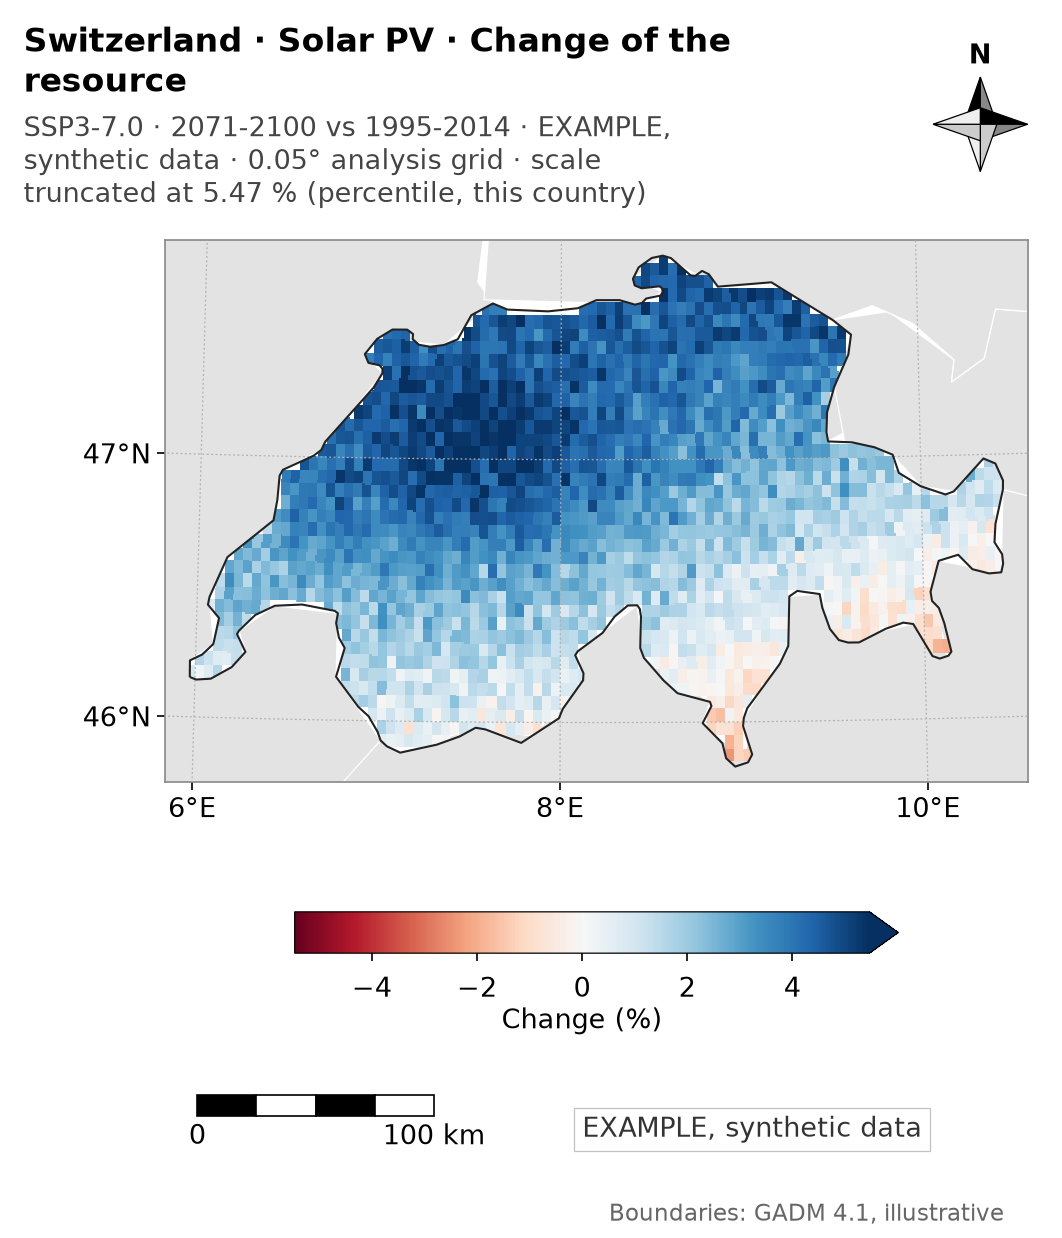
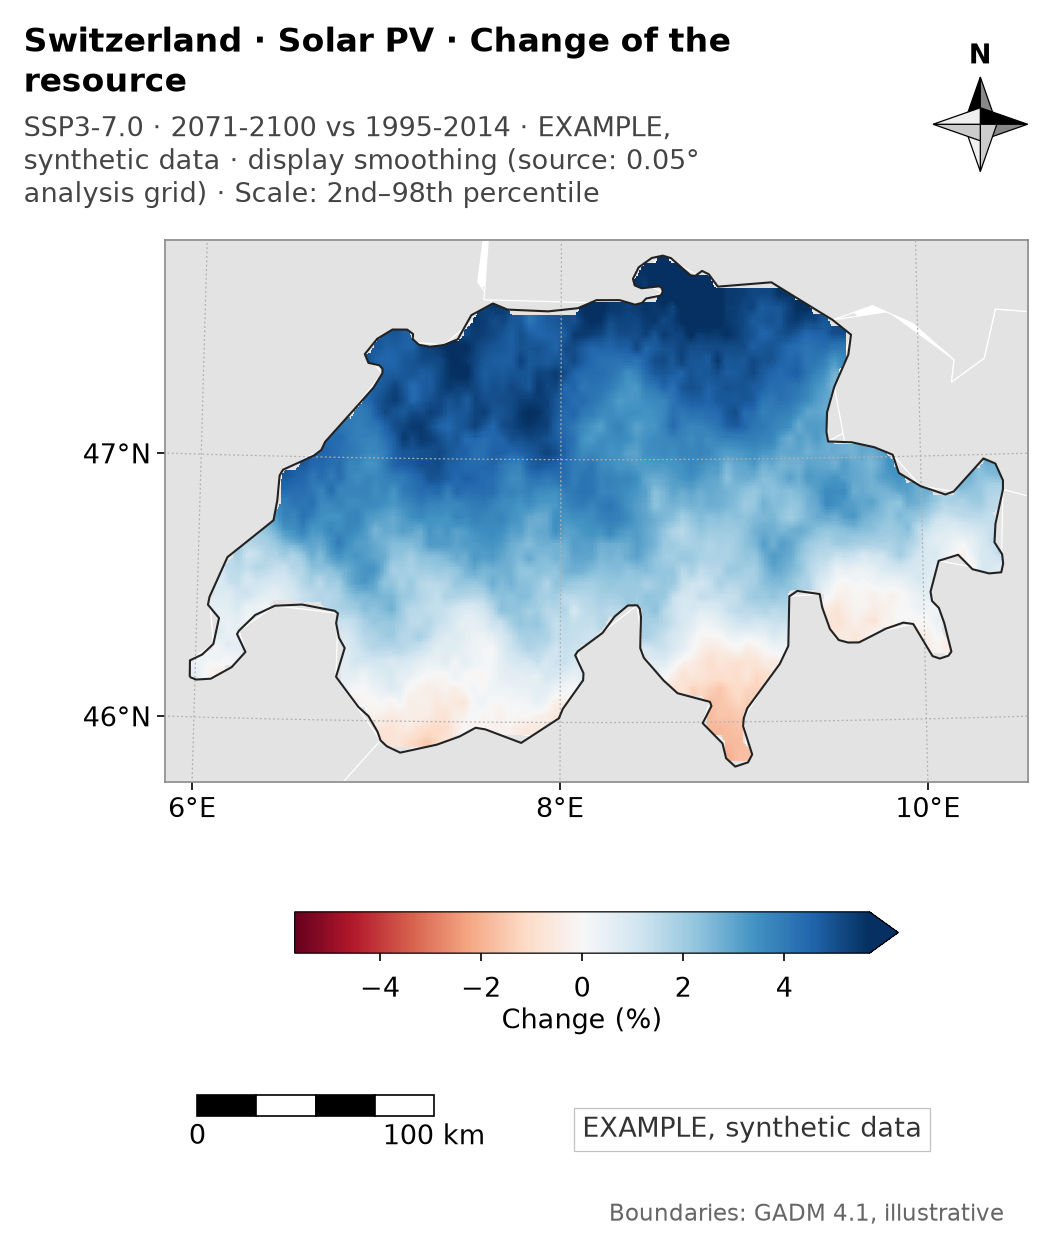
docs: METHODOLOGY 15.2.4, D-core-047, style guide, display_resolution_67b report and examples (COMMAND 67b, 3/3)

diff --git a/docs/phases/core.md b/docs/phases/core.md
@@ -115,6 +115,7 @@ Provides to all phases: DAG orchestrator, artifact registry and manifest, config
 - **D-core-041 — A phase is resumed only while the configuration it reads is the one it ran with (2026-10-18, COMMAND 51; manifest 2.5; A-02).** COMMAND 49 showed that a change of `elevation_max_m` in `experiments.yaml` was not seen: `Orchestrator.run` resumed `land_eligibility` as `success` with the old result (reproduced in `docs/phases/core/manifest_config_fix.md`). `core/config_fingerprint.py` holds `PHASE_CONFIG_SCOPE`, the sections of `experiments.yaml`, `parameters.json` (the country), `audit.yaml`, `technologies.yaml`, `settings.yaml`, `countries.yaml`, `published_potential.yaml` and the power-curve files that each phase reads; the fingerprint is the SHA-256 of the parsed, canonical values (comments and key order do not count). `PhaseSpec.config_fingerprint` is filled by `main._build_phase_specs(country_code=...)`; a `success` entry whose recorded `config_fingerprint` differs is executed again, and the downstream phases follow the content rule. An entry written before 2.5 is resumed once with a warning and adopts the current fingerprint; `--revalidate` refuses a phase whose configuration changed. A new phase must declare its scope (a test fails otherwise). `settings.memory.max_batch_gb` is in no scope.
 - **D-core-042 — A phase is executed again when its code changed, and a consumer is stale only when the canonical content of an input changed (2026-10-20, COMMAND 58; METHODOLOGY 15.2.1, A-02; manifest schema 2.6).** Two failures of COMMAND 52 and 55: a change of code did not invalidate the phase that runs it, and an identical rewrite of an artifact (other parquet metadata, other bytes) made every consumer stale. (a) `core/code_fingerprint.py`: each phase has `code_fingerprint`, the SHA-256 of the normalised syntax tree (comments, docstrings, blank lines and formatting dropped) of every module of the phase's package, or of its named modules (`PHASE_CODE_ROOTS`), and of every `geofrea` module they import, transitively; the manifest infrastructure (`INFRASTRUCTURE_MODULES`), `main.py`, the configuration and third-party packages are not in it. The orchestrator resumes a phase only while the fingerprint equals the recorded one; an entry without it is resumed once and adopts the current one (warning). `revalidate` refuses a phase whose code changed. (b) `core/content_hash.py`: every artifact records `sha256` (bytes, integrity of the file) and `content_sha256` (canonical content: parquet by column names, types and values; GeoTIFF by data, CRS, transform and nodata; JSON and YAML by the parsed document; PNG by pixels; other files by bytes). A re-registered artifact with an unchanged content hash keeps its run ID and a consumer is stale only by a changed `content_sha256`; an entry written before 2.6 is compared by bytes until a rerun records it. (c) `scripts/stamp_manifest_hashes.py <ISO3> --revision <rev> [--dry-run]` writes the two hashes into a real manifest without running anything, with the fingerprints that the code of the named revision gives (`d004027`, the revision of the last real run, for PRT, IND and BRA). Tests: `tests/unit/test_code_fingerprint.py` (a calculation line of F3 changes F3 to F8 and not the phases before it; a comment, a docstring, a blank line or a reformat changes nothing; a core module changes only the phases that import it; the manifest infrastructure changes nothing), `tests/unit/test_content_hash.py` (a parquet rewritten with other metadata keeps the content hash and does not mark consumers stale; another value or type does), `tests/unit/test_stamp_manifest_hashes.py`. Report: `docs/phases/core/resume_integrity_58.md`.
 - **D-core-043 — Schemas leave the code hash, the validated configuration enters the configuration hash, and every internal cache holds its code (2026-10-21, COMMAND 61; METHODOLOGY 15.2.3, A-02).** COMMAND 58 and 59 found two gaps. (a) An edit of `core/config_schemas.py` (a field with a default for the maps) changed the code fingerprint of every phase that imports the module, so F3 to F8 would have run again for a change they do not read. `code_fingerprint.CONFIG_SCHEMA_MODULES` now names the modules of the config-file models (`core.config_schemas`, `core.schemas`, `config_models.audit`, `config_models.land_availability`) and the normalised tree of those leaves out the field declarations and the validators of their pydantic models (methods, properties, helpers and constants stay as code: `for_scenario` and `nominal_set` are calculations). `config_fingerprint` validates each file that has a schema and takes the sections of a phase from the validated model with the defaults resolved, so a new field with a default, or a changed default, changes the fingerprint of the phases that read that section and of no other; a default written out in the YAML changes nothing. (b) Some caches outside the manifest ignored the code (the F3 share caches hid the E1 fix; the DEM extremes, the ERA5 batches, the GWA mosaic stamp without the mask, the GADM mainland files by a hand-bumped rule). `core/cache_code.py` (`CACHE_CODE_ROOTS`, `cache_code`) gives each store the fingerprint of the modules that compute it, `cache_key` takes `code` as a required keyword, and the eight stores of the inventory (table in `docs/phases/core/resume_integrity_58.md` section 8.2) hold it. The share cache key also holds the content of its input and the country polygon through the clip key (it held the mtime and no polygon). The first run of each country after this commit runs every phase again and rebuilds these stores once. Tests: `tests/unit/test_fingerprint_granularity.py`, `tests/unit/test_internal_caches.py`.
+- **D-core-047 — Display resolution of the maps: finer display layers first, declared smoothing second (2026-10-26, COMMAND 67b; spec v2 T-06; METHODOLOGY 15.2.4).** `MapFigure` counts the image pixels per cell of the analysis grid for the preset and the country (`plan_display`). Above 4 it draws the 0.01 degree display layer of the same descriptive quantity (`technical_potential/display_layers.py`: capacity factor by the F5 model, eligible fraction, capacity and energy density; `display_*` artifacts with their own fingerprint; checked against the analysis: CF aggregated to the cell, weighted by the eligible area, within 1%, eligible area and capacity exact; a layer that fails is refused). If a cell is still above 4 pixels, or the field comes from a GCM, a continuous field is interpolated bilinearly with its mask (`viz/display.py`, normalised convolution, no leak of no-data, border at the edge of the cells) and clipped by the polygon; the subtitle says `display smoothing (source: <resolution>)`. Never for classes, categories or per-state maps. `absolute_maps.display_smoothing: auto | off` (default `auto`). Neighbours are cut by the rectangle of the map and the gap between two sources of border is closed (no rounded shapes, no white wedges); the scale note of the subtitle is `Scale: 2nd–98th percentile`, `Scale: fixed` or `Scale: shared`, and the numeric limits are in the PNG metadata; the synthetic fields of the examples and archetypes are a smooth trend plus correlated waves and a small noise per pixel. **The analysis, its totals and `outputs/` do not change. The builder of the display layers is tested but no phase calls it yet (it needs the resources of a real run); `potential_maps` reads the layers when they exist.**
 - **D-core-046 — `MapFigure` draws in LAEA, clips the raster by the country and is tested on six archetypes (2026-10-26, COMMAND 67; spec v2 T-06 to T-08, T-13).** The map is in a Lambert azimuthal equal-area projection centred on the country, for drawing only (areas are computed on the sphere elsewhere); the scale bar is measured in it and the graticule is in degrees. `draw_raster` copies the 0.05 degree grid cell by cell (nearest, rasterised) and clips it by the polygon, so the coast is the vector line; the grid of the analysis does not change. Neighbours within 2.5 degrees, own grey and legend entry for "no potential", locator inset only in overview figures, the resolution in the subtitle (`0.05° analysis grid`), a narrower figure for a very tall country. Archetypes PRT, CHL, BRA, CHE, IDN, LUX (real simplified geometry, synthetic data, `tests/fixtures/archetypes`): five kinds of figure each, no overlap, no cut text, no dead space, standard place of the furniture, golden hash. The sensitivity of the results to the cell is OQ-064. **No figure of `outputs/` was redrawn.**
 - **D-core-045 — `mapstyle.py` is the one module of figure, `MapFigure` (2026-10-26, COMMAND 66; spec v2 T-01 to T-05).** Fixed grid: header (title, subtitle, 8-point compass at the right), map, legend (colour bar of the map's height, or named patches), footer (scale bar, box of totals, source); the search for an empty corner is gone. Presets `thesis` 190 mm, `article_single` 90, `article_double` 180, `slide` 254, fonts in pt. One place for variable -> colormap and scale: solar `YlOrBr` and wind `GnBu` truncated at 15%, exclusion `Reds` (diagnostics), changes `RdBu`/`BrBG`, temperature `YlOrRd`, classes in Okabe-Ito without green; CF fixed 0.10-0.25 (solar) and 0-0.60 (wind) in every country, densities at P2-P98 per country, `shared` for comparisons; a clip goes in the subtitle with mode and scope. A figure refuses one colour with two meanings; deuteranopia and protanopia are simulated in the tests. Titles `Country · Technology · Variable` with the name of the country, no internal id, cell count or typo (`validate_label`). File names `{ISO3}_{phase}_{variable}_{technology}_{scenario}_{climate}.png`, text chunks in the PNG, one `figures_index.json` per folder. `NO_DATA_COLOUR` is `#bdbdbd` and the neighbours `#e3e3e3` (they were `#d9d9d9` and `#ececec`, 5 apart). **No figure of `outputs/` was redrawn:** the producers of F5 still write the old names (`absolute_map_names`) and the real maps change (palette, subtitle with the clip, title with the name of the country) when the phase runs again; moving the producers to `figure_filename` is the next step.
 - **D-core-044 — Adopting the internal caches of an earlier revision (restamp): rejected (2026-10-22, COMMAND 64; A-02).** A restamp (`GEOFREA_CACHE_RESTAMP_FROM`, `scripts/restamp_caches.py`) was built on branch `feat/cache-restamp` so that a refactor would not rebuild the internal caches (D-core-043). It is not merged, not cherry-picked and not used in any round. Reason: the avoidable re-execution is already avoided by the fingerprint per phase (code, validated configuration and content of the inputs; D-core-042 and D-core-043), and the restamp would only save one rebuild after a refactor while accepting the result on the operator's statement of equivalence, which nothing checks: the risk COMMAND 58 corrected. The branch is kept, not deleted. To reconsider only if a cache rebuild after a refactor costs more than 2 h in one country, and then with an automatic equivalence check (run both revisions on a sample and compare the results), never by statement.
@@ -155,4 +156,5 @@ Provides to all phases: DAG orchestrator, artifact registry and manifest, config
 - 2026-10-21 (D-core-043, COMMAND 61): fingerprint granularity and the code in every internal cache, `docs/phases/core/resume_integrity_58.md` section 8.
 - 2026-10-22 (D-core-044, COMMAND 64): restamp of internal caches rejected; branch `feat/cache-restamp` kept unmerged.
 - 2026-10-26 (D-core-045, COMMAND 66): `mapstyle.py` becomes `MapFigure`: fixed layout, presets, semantic palette and scales, titles, file names and PNG metadata.
+- 2026-10-26 (D-core-047, COMMAND 67b): display resolution: the display layers at 0.01 degree, the masked smoothing declared in the subtitle, neighbours cut by the rectangle, lean scale note, correlated synthetic fields.
 - 2026-10-26 (D-core-046, COMMAND 67): `MapFigure` in LAEA with a clipped raster, context, locator, resolution note and archetype tests.

diff --git a/docs/figures/display_resolution_67b.md b/docs/figures/display_resolution_67b.md
@@ -1,0 +1,46 @@
+# Display resolution of the maps (COMMAND 67b)
+
+Branch `feat/display-resolution`. Decision record: D-core-047. Method: METHODOLOGY 15.2.4, section 11. Nothing in the analysis changes: no total, no LCOE, no analysis artifact, no figure under `GEOFREA_DATA_DIR/outputs/`.
+
+## What changed
+
+| Step | What |
+|---|---|
+| 2 | `MapFigure.px_per_cell(cell_deg)` counts the image pixels along one side of an analysis cell for the preset, the country and the width (`plan_display`). Above 4 it uses the finest display layer available. |
+| 3 | `technical_potential/display_layers.py`: the 0.01° display layers (capacity factor by the F5 model itself, eligible fraction, capacity density, energy density), `display_<layer>_<tech>.tif` with `display_layers_<tech>.json` (own fingerprint, checks). `potential_maps` reads them when they exist. |
+| 4 | `viz/display.py`: masked bilinear smoothing (normalised convolution), only for continuous fields; the subtitle says `display smoothing (source: <resolution>)`; `absolute_maps.display_smoothing: auto \| off` in `experiments.yaml` (default `auto`). |
+| 5 | Neighbours are cut by the rectangle of the map (`clip_by_rect`), and the gap between two sources of border (GADM against Natural Earth) is closed with the colour of the neighbours. |
+| 6 | The scale note is `Scale: 2nd–98th percentile`, `Scale: fixed` or `Scale: shared`, only when the scale cuts values; the numeric limits stay in the PNG metadata (`geofrea_scale_limits`). |
+| 7 | The synthetic fields are a smooth trend plus correlated waves (3 cells and longer) and a small noise per pixel; the 0.05° and 0.01° layers are the same field. |
+
+## Before and after (synthetic data, the same field)
+
+"Before" is the 0.05° cells as they are (`fine=False`, `display_smoothing="off"`); "after" is what the figure draws now.
+
+| | Before | After | What was done |
+|---|---|---|---|
+| PRT, thesis | ![](display_resolution_67b/PRT_before.png) | ![](display_resolution_67b/PRT_after.png) | 11.7 px per cell → the 0.01° display layer (2.3 px): no smoothing needed |
+| LUX, article_single | ![](display_resolution_67b/LUX_before.png) | ![](display_resolution_67b/LUX_after.png) | 25.8 px per cell → 0.01° layer (5.2 px, still above 4) → display smoothing |
+| CHE, article_single | ![](display_resolution_67b/CHE_before.png) | ![](display_resolution_67b/CHE_after.png) | climate delta (a GCM field, no fine layer) → display smoothing from the 0.05° grid |
+| BRA, thesis | ![](display_resolution_67b/BRA_before.png) | ![](display_resolution_67b/BRA_after.png) | 1.6 px per cell: nothing to do, identical |
+
+The four examples of `docs/figures/examples/` were regenerated; CHL and IDN (classes and states, never smoothed) were not, as asked.
+
+## Checks
+
+| Check | Where | Result |
+|---|---|---|
+| Pixels per cell ≤ 4, or the subtitle declares the smoothing, for density, capacity factor and climate delta in the six archetypes (18 figures) | `test_display_resolution.py` | pass |
+| No colour outside the country or in the middle of a no-data hole after smoothing | same | pass |
+| Smoothed values stay between the smallest and the largest data value (no 0 leaks in) | same | pass |
+| 0.01° → 0.05° aggregation: CF weighted by the eligible area within 1% in every cell; eligible area and capacity exact (1e-6, float32 of the stored rasters); a wrong analysis (5% CF, 1% area) is refused | same | pass |
+| Classes, categories and states identical pixel by pixel with `auto` and `off` (PRT and LUX eligibility, IDN and CHE state) | same | pass |
+| Neighbours inside the rectangle of the map and reaching its sides | same | pass |
+| Perceptual-hash goldens (archetypes and style examples) refrozen after looking at the figures | `tests/fixtures` | refrozen |
+
+## Limits (stated, not hidden)
+
+- **The display layers of the real countries are not built.** `build_display_layers` and `write_display_layers` are tested on synthetic pixels with the real `PvoutWithTemperature` model, and `potential_maps` reads the layers when they exist, but no phase calls the builder yet: it needs the F2a resource layers, the F3 eligible fraction and the F5 registry settings of a real run, which this command did not run. Until then the real F5 maps draw the cells (with `display smoothing` when a cell is above 4 pixels). Wiring the builder into the phase is a follow-up.
+- The smoothing keeps the border of the data at the edge of the cells, so a thin strip of a coastal cell whose centre is outside the polygon stays empty (white, or the grey of "no potential").
+- The gap between neighbours and country is closed up to 8 km; a larger mismatch of two border sources still shows white. The archetype fixtures have no Liechtenstein, so a small white sliver remains in the example of CHE.
+- The real F5 PNGs keep their old look until the phase is rerun; no file in `outputs/` was touched.

diff --git a/docs/METHODOLOGY.md b/docs/METHODOLOGY.md
@@ -3,9 +3,9 @@
 | Field | Value |
 |---|---|
 | Document | `docs/METHODOLOGY.md` |
-| Version | 15.2.3 |
+| Version | 15.2.4 |
 | Adopted | 2026-09-15 |
-| Updated | 2026-10-21 |
+| Updated | 2026-10-26 |
 | Owner | Douglas |
 | Status | Adopted for implementation. Static document. |
 
@@ -478,6 +478,8 @@ Reporting rule for the climate outputs: climate effects on potential are compute
 
 Per-phase maps are diagnostics for inspection and for the future platform, generated under A-08. Minimum set per country and technology: F2b exclusion layers and cost-driver layers; F3 eligible fraction and dominant exclusion; F4 change factors per member; F5 CF and capacity per member; F6 nominal and median LCOE; F7 MR, SR, top-k flags.
 
+**Display resolution.** What a map draws is never what the analysis computes. A map counts the image pixels per cell of the analysis grid (0.05 degree); above 4 it draws, when there is one, the *display layer* of the same descriptive quantity on the 0.01 degree grid of F2a (capacity factor by the F5 model itself, including the air density rule and the retention of the candidate cells; eligible fraction; capacity density; energy density), written by `potential_maps` as `display_*` artifacts with their own fingerprint and checked against the analysis (the capacity factor aggregated to the cell, weighted by the eligible area, within 1% in every cell; the eligible area and the capacity exact). If a cell is still a block, or the field comes from a GCM, a continuous field (capacity factor, densities, climate deltas) is interpolated bilinearly with its mask (no-data weighs nothing and nothing is drawn beyond the edge of the cells) and clipped by the country polygon; the subtitle says `display smoothing` and the resolution of the source, and `experiments.yaml` `absolute_maps.display_smoothing` (`auto` | `off`) controls it. Classes, categories and per-state maps are never smoothed. No total, LCOE, ranking or analysis artifact reads a display layer.
+
 ---
 
 ## 12. Implementation roadmap
@@ -563,6 +565,7 @@ Full bibliographic details must be confirmed during the literature review before
 
 | Version | Date | Change |
 |---|---|---|
+| 15.2.4 | 2026-10-26 | PATCH (output rule of a diagnostic phase; COMMAND 67b; no result changes): Section 11 states the display resolution of the maps: display layers at 0.01 degree from F2a for the descriptive maps of `potential_maps` (checked against the analysis grid), masked bilinear display smoothing declared in the subtitle for continuous fields still blocky or from a GCM, `absolute_maps.display_smoothing` (`auto` / `off`); classes, categories and per-state maps are never smoothed; no analysis artifact reads a display layer. |
 | 15.2.3 | 2026-10-21 | PATCH (infrastructure; COMMAND 61; no result changes): A-02: the field declarations and validators of the configuration schemas are not part of the code fingerprint of a phase, and the configuration fingerprint holds the section a phase reads as its schema validates it, with the defaults resolved, so a change of a schema reaches only the phases that read that section; every internal cache outside the manifest holds the fingerprint of the code that computes its result in its key (D-core-043). IDs altered: A-02. |
 | 15.2.2 | 2026-10-20 | PATCH (output rule of a diagnostic phase; COMMAND 60; no result changes): M-F5-07 draws the maps of `potential_maps` in the common map style with the densities per cell (MW per km2, GWh per km2 per year) and per state (over the land area of the state) as main maps, circles for the state totals, the same classes in the three land scenarios; the maps of MW and GWh per cell become optional (`absolute_maps.per_cell`, default false); `absolute_maps.dpi` is removed (the style fixes 300 dpi). IDs altered: M-F5-07. |
 | 15.2.1 | 2026-10-20 | PATCH (infrastructure and one data rule; COMMAND 58; closes OQ-062; the results of PRT and BRA do not change, those of IND change only in the wind of the territory added by 15.2.0): (a) A-02: the manifest (schema 2.6) records a code fingerprint per phase and a canonical content hash per artifact; a phase runs again when its code changed and a consumer is stale only when the canonical content of an input changed (D-core-042); (b) M-F1-03: a GWA file that covers less than 99% of the country mask is completed from the files of the neighbours declared in `countries.yaml` (`gwa_neighbours`), cut to the mask (D-F1-030); (c) M-F1b-01: the audit records the mask coverage of the GWA layers and alerts below 99%; (d) M-F1-02: the bundled DEM file is no longer a layer of F1 or F1b. IDs altered: A-02, M-F1-02, M-F1-03, M-F1b-01. |

diff --git a/docs/figures/style_guide.md b/docs/figures/style_guide.md
@@ -34,7 +34,11 @@ Fonts are in points at the final print size (the figure has its exact size; an o
 
 ## Resolution (T-06)
 
-The grid of the analysis stays 0.05 degree in every country. Results of the analysis (potential, capacity factor per cell, density) are drawn at that resolution and **the subtitle says so** (`resolution_note(cell_deg=0.05)` gives `0.05° analysis grid`); a descriptive layer that exists at a finer resolution is drawn at its native resolution and says so (`resolution_note(native_m=30)`). The text goes into the PNG too (`geofrea_resolution`). Whether the results change with another cell is **OQ-064**, for after F7 (`docs/OPEN_QUESTIONS.md`).
+The grid of the analysis stays 0.05 degree in every country. Results of the analysis (potential, capacity factor per cell, density) are drawn at that resolution and **the subtitle says so** (`resolution_note(cell_deg=0.05)` gives `0.05° analysis grid`; a finer display layer says `0.01° display layer`); a descriptive layer that exists at a finer resolution is drawn at its native resolution and says so (`resolution_note(native_m=30)`). The text goes into the PNG too (`geofrea_resolution`). Whether the results change with another cell is **OQ-064**, for after F7 (`docs/OPEN_QUESTIONS.md`).
+
+## Display resolution (COMMAND 67b)
+
+`MapFigure` counts the image pixels per cell (`px_per_cell`; the metadata `display_px_per_cell`). Above 4: (1) the 0.01 degree display layer of the same descriptive quantity is drawn when there is one (`display_layer=`; `0.01° display layer` in the subtitle); (2) if a cell is still above 4 pixels, or the field comes from a GCM (`coarse_source=True`), a continuous field is interpolated bilinearly with its mask (`display_smoothing="auto"`; `"off"` never) and the subtitle says `display smoothing (source: 0.05° analysis grid)`. Classes, categories and states are never smoothed. The scale note is `Scale: 2nd–98th percentile`, `Scale: fixed` or `Scale: shared` and appears only when the scale cuts values; the limits are in `geofrea_scale_limits`. Neighbours are cut by the rectangle of the map. Before and after: `docs/figures/display_resolution_67b.md`.
 
 ## Country archetypes (T-13)
 
